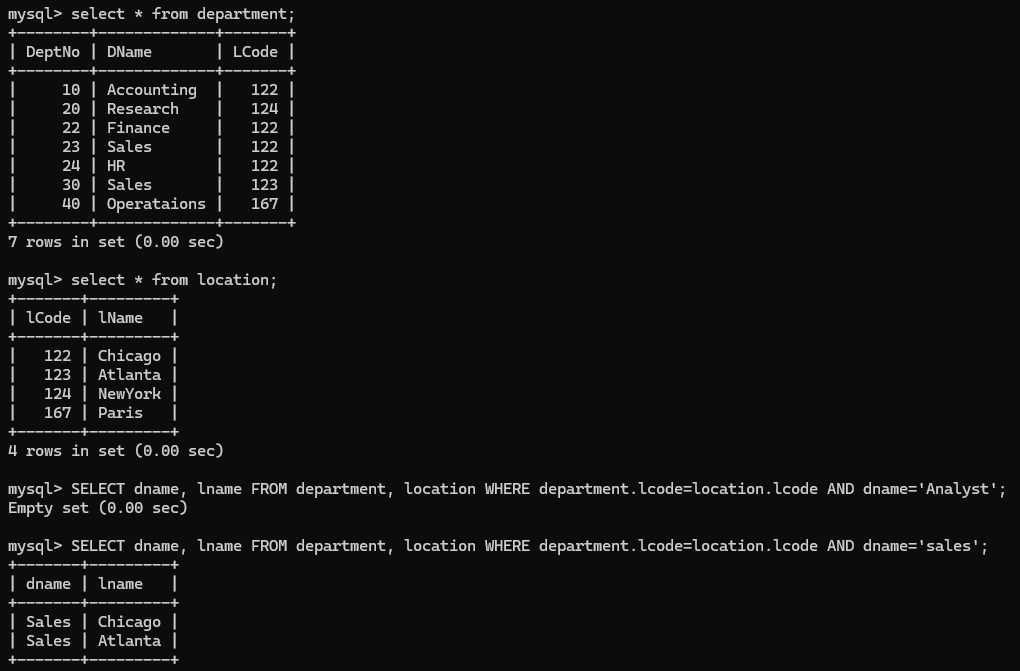
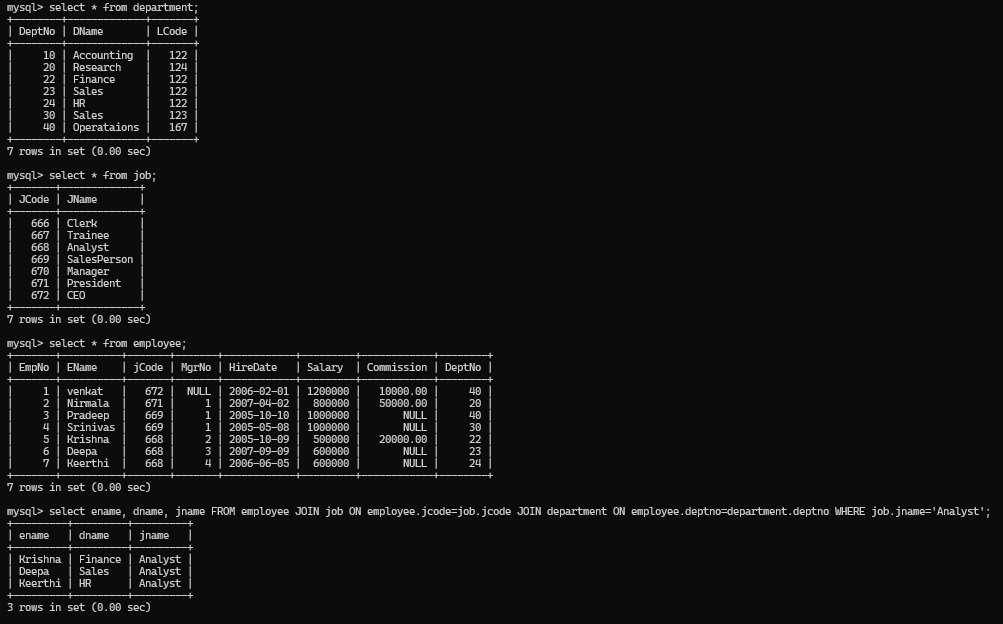
mysql notes

Changed region(s): [[0.0, 0.0, 0.989, 1.0]]

diff --git a/Mysql_task.md b/Mysql_task.md
@@ -176,6 +176,11 @@ SELECT ename,dname FROM employee, department WHERE employee.deptno = department.
 #### Query:
 ``` sql
 SELECT dname, lname FROM department JOIN location ON department.lcode = location.lcode;
+
+or
+
+SELECT dname, lname FROM department, location WHERE department.lc
+ode=location.lcode;
 ```
 ![preview](images/sql18.png)
 
@@ -199,7 +204,7 @@ JOIN location ON department.lcode = location.lcode;
 
 #### Query:
 ```sql
-SELECT dname, lname FROM department, location WHERE department.lcode=location.lcode AND dname='Analyst';
+ SELECT ename, dname, jname FROM employee JOIN job ON employee.jcode=job.jcode JOIN department ON employee.deptno=department.deptno WHERE job.jname='Analyst';
 ```
 ![preview](images/sql20.png)
 
@@ -207,7 +212,11 @@ SELECT dname, lname FROM department, location WHERE department.lcode=location.lc
 
 #### Query:
 ```sql
-SELECT * FROM employee WHERE mgrno = 'pradeep' or 'srinivas'; 
+SELECT empno,ename FROM employee WHERE mgrno IN(SELECT empno FROM employee WHERE ename  IN ('pradeep', 'srinivas'));
+
+or
+
+SELECT empno,ename FROM employee WHERE mgrno IN(SELECT empno FROM employee WHERE ename = 'pradeep' or 'srinivas');
 ```
 ![preview](images/sql21.png)
 
@@ -215,7 +224,7 @@ SELECT * FROM employee WHERE mgrno = 'pradeep' or 'srinivas';
 
 #### Query:
 ```sql
-SELECT * FROM employee WHERE deptno = 'Accounting';
+SELECT ename, dname FROM employee JOIN department ON employee.deptno=department.deptno WHERE department.dname='Accounting'
 ```
 ![preview](images/sql22.png)
 
@@ -224,24 +233,50 @@ SELECT * FROM employee WHERE deptno = 'Accounting';
 #### Query:
 ```sql
 SELECT employee.ename, employee.deptno, employee.salary, department.dname FROM employee, department WHERE employee.deptno = department.deptno AND dname = 'Research';
+
+or
+
+SELECT ename, salary, dname FROM employee JOIN department ON employee.deptno=department.deptno WHERE department.dname='Research';
 ```
 ![preview](images/sql23.png)
+![preview](images/sql24.png)
 
 ### 7) find the employees who are getting max salary in their respective job ?
 
 #### Query:
+```sql
+SELECT ename,salary,jname FROM employee JOIN job ON employee.jcode=job.jcode WHERE employee.salary=(SELECT MAX(salary) FROM employee WHERE employee.jcode=job.jcode);
 ```
-```
+![preview](images/sql25.png)
+
 ### 8) Display name of employee whose salary is highest without using MAX() function ?
 
 #### Query:
+```sql
+SELECT ename,salary FROM employee WHERE salary=(SELECT MAX(salary) FROM employee );
+
+or 
+
+SELECT ename FROM employee JOIN job ON employee.jcode=job.jcode WHERE employee.salary=(SELECT MAX(salary) FROM employee);  
 ```
-```
+![preview](images/sql26.png)
+
 ### 9) Write a query to display highest salary department wise and name of employees who is getting salary ?
 
 #### Query:
+```sql
+# To know all department employee salaries
+
+SELECT ename,dname,salary FROM employee JOIN department ON employee.deptno=department.deptno; 
+
+# To know department wise highest salary to employees 
+
+SELECT ename,dname,salary FROM employee JOIN department ON employee.deptno=department.deptno WHERE employee.salary=(SELECT MAX(salary) FROM e
+mployee WHERE employee.deptno=department.deptno);
 ```
-```
+![preview](images/sql27.png)
+
+
 
 
 
